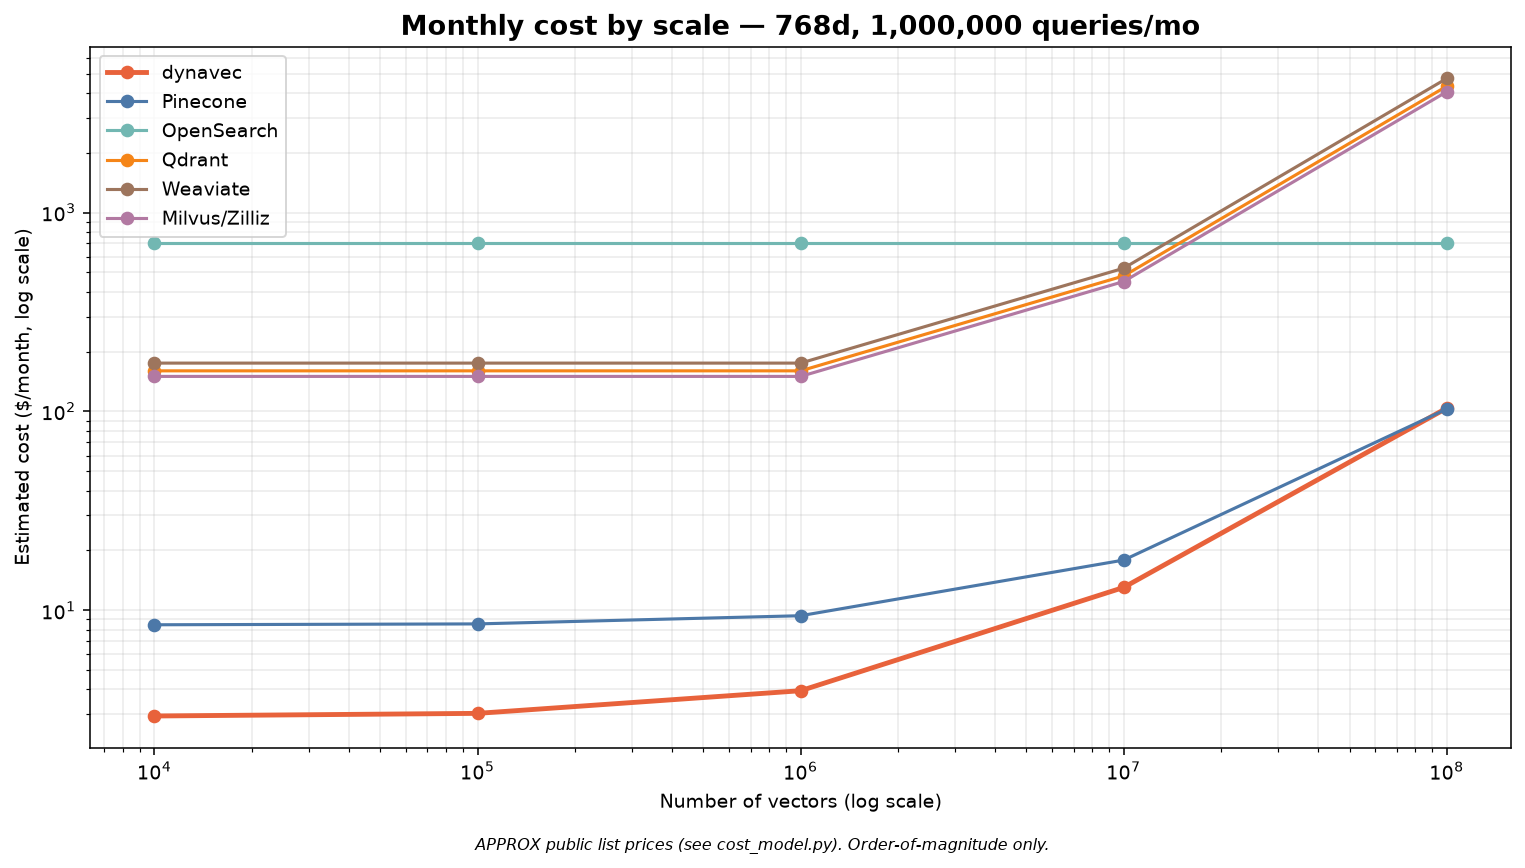
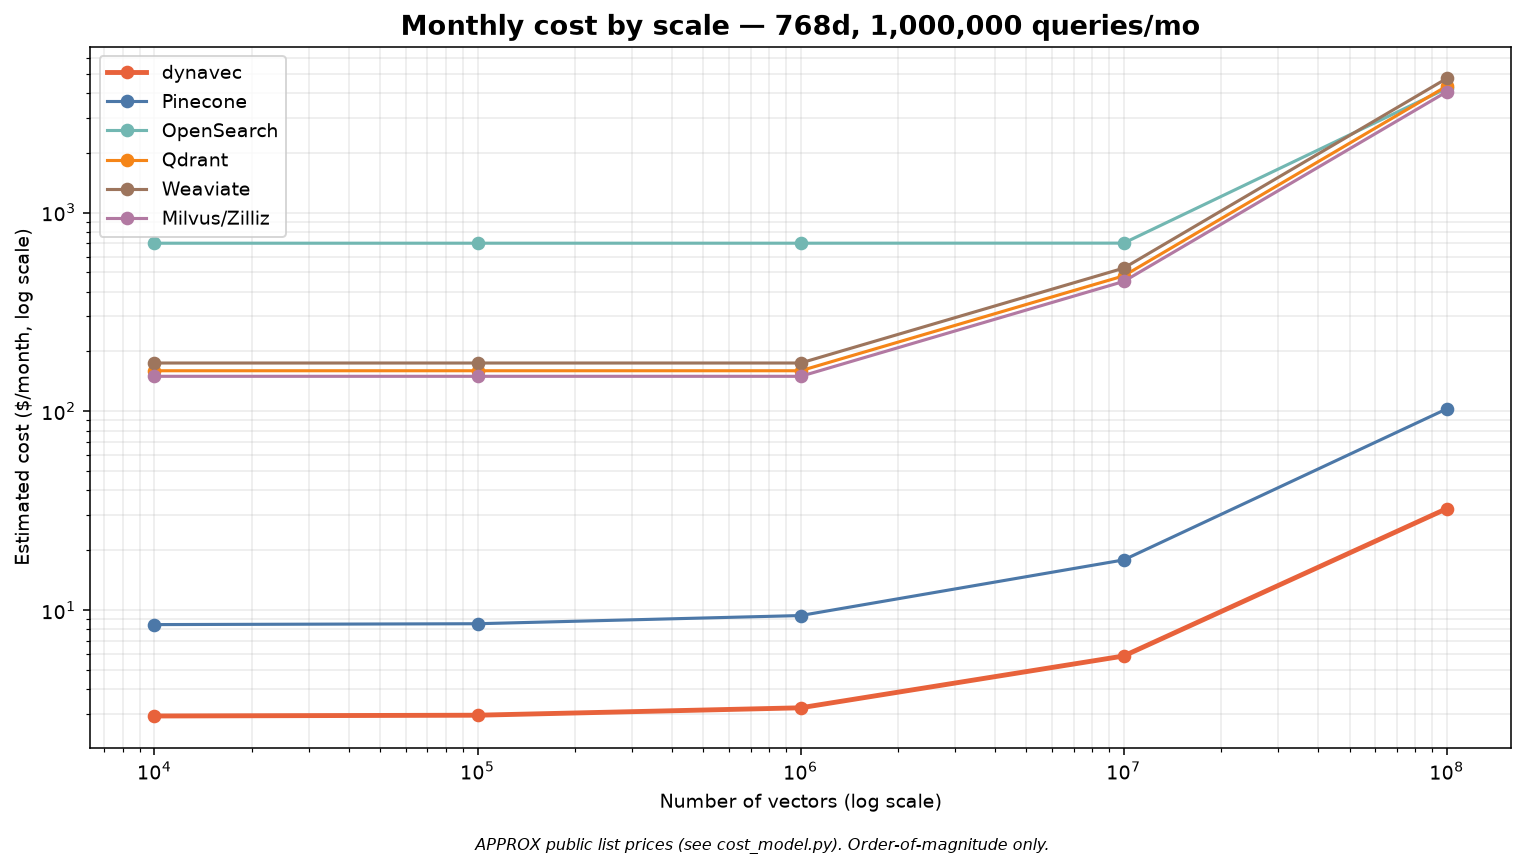
benchmarks: cost sweep across dimensions (384-3072) and scale (100K-1B)
- report.py: cost_matrix_by_dim (6-panel grid), cost_by_dimension, storage_footprint charts + per-dimension scaling tables (scaling.md)
- README: "Scaling: every embedding dimension, 100K -> 1B" section with charts + 1536-d table
- cost_model fixes: DynamoDB no longer counts vector bytes (vectors live only in S3 Vectors); OpenSearch OCUs now scale with data instead of a flat floor
- regenerate docs/assets

diff --git a/benchmarks/report.py b/benchmarks/report.py
@@ -169,6 +169,134 @@ def cost_scale_chart(inp: ReportInputs, out_path: str) -> str:
     return out_path
 
 
+# Common embedding dimensions and the 100K -> 1B scale ladder.
+DIMENSIONS = [384, 768, 1024, 1536, 3072]
+SCALES = [100_000, 1_000_000, 10_000_000, 100_000_000, 1_000_000_000]
+
+
+def _fmt_count(n: int) -> str:
+    for div, suf in ((1_000_000_000, "B"), (1_000_000, "M"), (1_000, "K")):
+        if n >= div:
+            v = n / div
+            return f"{v:.0f}{suf}" if v == int(v) else f"{v:.1f}{suf}"
+    return str(n)
+
+
+def _raw_gb(vectors: int, dim: int) -> float:
+    return vectors * dim * 4 / (1024**3)
+
+
+def cost_matrix_chart(out_path: str, qpm: int = 1_000_000, wpm: int = 100_000) -> str:
+    """Grid of cost-vs-scale panels, one per embedding dimension."""
+    products = list(_PROFILE.keys())
+    rows, cols = 2, 3
+    fig, axes = plt.subplots(rows, cols, figsize=(16, 9), sharex=True)
+    axes = axes.flatten()
+
+    for ax, dim in zip(axes, DIMENSIONS):
+        for p in products:
+            ys = [compare(Workload(n, dim, qpm, wpm))[p] for n in SCALES]
+            ax.plot(SCALES, ys, marker="o",
+                    color=_COLORS[p], linewidth=2.4 if p == "dynavec" else 1.4,
+                    label=_LABELS[p])
+        ax.set_xscale("log")
+        ax.set_yscale("log")
+        ax.set_title(f"{dim}-dim embeddings", weight="bold")
+        ax.grid(True, which="both", alpha=0.22)
+        ax.set_xticks(SCALES)
+        ax.set_xticklabels([_fmt_count(n) for n in SCALES], rotation=30)
+
+    # last panel: legend + notes
+    legend_ax = axes[-1]
+    legend_ax.axis("off")
+    handles, labels = axes[0].get_legend_handles_labels()
+    legend_ax.legend(handles, labels, loc="center", fontsize=12, title="Product")
+
+    fig.suptitle(f"Estimated monthly cost by scale & dimension  ·  {qpm:,} queries/mo",
+                 fontsize=16, weight="bold")
+    fig.supxlabel("Number of vectors (log scale)")
+    fig.supylabel("Cost $/month (log scale)")
+    fig.tight_layout()
+    fig.savefig(out_path, dpi=130, bbox_inches="tight")
+    plt.close(fig)
+    return out_path
+
+
+def cost_by_dimension_chart(out_path: str, scale: int = 100_000_000, qpm: int = 1_000_000) -> str:
+    """Cost vs embedding dimension at a fixed (large) scale."""
+    products = list(_PROFILE.keys())
+    fig, ax = plt.subplots(figsize=(11, 6))
+    for p in products:
+        ys = [compare(Workload(scale, d, qpm, 100_000))[p] for d in DIMENSIONS]
+        ax.plot(DIMENSIONS, ys, marker="s",
+                color=_COLORS[p], linewidth=2.4 if p == "dynavec" else 1.4,
+                label=_LABELS[p])
+    ax.set_yscale("log")
+    ax.set_xticks(DIMENSIONS)
+    ax.set_xlabel("Embedding dimension")
+    ax.set_ylabel("Cost $/month (log scale)")
+    ax.set_title(f"Cost by embedding dimension @ {_fmt_count(scale)} vectors",
+                 fontsize=14, weight="bold")
+    ax.grid(True, which="both", alpha=0.25)
+    ax.legend()
+    fig.text(0.5, -0.02, "APPROX list prices — see cost_model.py.", ha="center",
+             fontsize=8, style="italic")
+    fig.tight_layout()
+    fig.savefig(out_path, dpi=140, bbox_inches="tight")
+    plt.close(fig)
+    return out_path
+
+
+def storage_footprint_chart(out_path: str) -> str:
+    """Raw float32 storage (GB) by scale, per dimension — shows why RAM clusters
+    get expensive and why dynavec's S3-priced storage wins at scale."""
+    fig, ax = plt.subplots(figsize=(11, 6))
+    for dim in DIMENSIONS:
+        ys = [_raw_gb(n, dim) for n in SCALES]
+        ax.plot(SCALES, ys, marker="o", linewidth=1.8, label=f"{dim}-d")
+    ax.set_xscale("log")
+    ax.set_yscale("log")
+    ax.set_xticks(SCALES)
+    ax.set_xticklabels([_fmt_count(n) for n in SCALES])
+    ax.set_xlabel("Number of vectors (log scale)")
+    ax.set_ylabel("Raw float32 size (GB, log scale)")
+    ax.set_title("Vector storage footprint (raw float32)", fontsize=14, weight="bold")
+    ax.grid(True, which="both", alpha=0.25)
+    ax.legend(title="dimension")
+    fig.tight_layout()
+    fig.savefig(out_path, dpi=140, bbox_inches="tight")
+    plt.close(fig)
+    return out_path
+
+
+def scaling_tables_md(qpm: int = 1_000_000, wpm: int = 100_000) -> str:
+    """One cost table per dimension: rows = product, cols = scale (100K -> 1B)."""
+    products = list(_PROFILE.keys())
+    out = []
+    for dim in DIMENSIONS:
+        out.append(f"\n### {dim}-dim embeddings — $/month ({qpm:,} queries/mo)\n")
+        header = "| Product | " + " | ".join(_fmt_count(n) for n in SCALES) + " |"
+        sep = "|" + "---|" * (len(SCALES) + 1)
+        out.append(header)
+        out.append(sep)
+        # per-column best (min) for bolding
+        col_costs = [compare(Workload(n, dim, qpm, wpm)) for n in SCALES]
+        best_per_col = [min(cc, key=cc.get) for cc in col_costs]
+        for p in products:
+            cells = []
+            for j, n in enumerate(SCALES):
+                v = col_costs[j][p]
+                s = f"${v:,.0f}" if v >= 1 else f"${v:.2f}"
+                if p == best_per_col[j]:
+                    s = f"**{s}**"
+                cells.append(s)
+            out.append(f"| {_LABELS[p]} | " + " | ".join(cells) + " |")
+        # dynavec raw footprint row (informational)
+        gb = [f"{_raw_gb(n, dim):,.0f} GB" for n in SCALES]
+        out.append(f"| _raw float32 size_ | " + " | ".join(gb) + " |")
+    return "\n".join(out)
+
+
 def generate(out_dir: str = "benchmarks/out", inp: ReportInputs | None = None) -> dict:
     inp = inp or ReportInputs()
     os.makedirs(out_dir, exist_ok=True)
@@ -180,7 +308,24 @@ def generate(out_dir: str = "benchmarks/out", inp: ReportInputs | None = None) -
         f.write(table_md + "\n")
     bars = bar_chart(inp, os.path.join(out_dir, "quality_latency.png"))
     cost = cost_scale_chart(inp, os.path.join(out_dir, "cost_by_scale.png"))
-    return {"table_md": table_path, "bar_chart": bars, "cost_chart": cost}
+
+    # dimension × scale (100K -> 1B) sweep
+    matrix = cost_matrix_chart(os.path.join(out_dir, "cost_matrix_by_dim.png"), qpm=inp.qpm)
+    by_dim = cost_by_dimension_chart(os.path.join(out_dir, "cost_by_dimension.png"), qpm=inp.qpm)
+    footprint = storage_footprint_chart(os.path.join(out_dir, "storage_footprint.png"))
+    scaling_path = os.path.join(out_dir, "scaling.md")
+    with open(scaling_path, "w") as f:
+        f.write("# dynavec scaling: dimensions × vector count (100K → 1B)\n")
+        f.write("\n_Cost from the cost model (APPROX public list prices). "
+                "Recall/latency unaffected by this sweep._\n")
+        f.write(scaling_tables_md(qpm=inp.qpm))
+        f.write("\n")
+
+    return {
+        "table_md": table_path, "bar_chart": bars, "cost_chart": cost,
+        "cost_matrix": matrix, "cost_by_dimension": by_dim,
+        "storage_footprint": footprint, "scaling_md": scaling_path,
+    }
 
 
 def main() -> None:

diff --git a/benchmarks/cost_model.py b/benchmarks/cost_model.py
@@ -36,7 +36,9 @@ class Workload:
 
     @property
     def doc_store_gb(self) -> float:
-        return self.vectors * (self.metadata_bytes + self.vector_bytes) / GB
+        # DynamoDB holds text + metadata ONLY — the vector lives in S3 Vectors,
+        # so it is never duplicated here.
+        return self.vectors * self.metadata_bytes / GB
 
 
 def dynavec_cost(w: Workload) -> dict[str, float]:
@@ -79,10 +81,19 @@ def pinecone_serverless_cost(w: Workload) -> float:
 
 
 def opensearch_serverless_cost(w: Workload) -> float:
-    """APPROX OpenSearch Serverless: min 2 OCU indexing + 2 OCU search, ~$0.24/OCU-hr.
-    Floor is ~4 OCU * 730h * $0.24 ≈ $700/mo even when idle."""
-    ocu_hours = 4 * 730
-    return ocu_hours * 0.24
+    """APPROX OpenSearch Serverless: ~$0.24/OCU-hr, min 4 OCU (2 index + 2 search)
+    even when idle, and OCUs must scale with data kept hot for vector search.
+
+    Model: OCUs = max(4, ceil(hot_gb / 6)), hot_gb = raw * 0.5 (rest tiers to
+    disk/quantized). ~6 GB working memory per OCU. Plus cheap S3 storage.
+    """
+    import math
+
+    hot_gb = w.raw_vector_gb * 0.5
+    ocus = max(4, math.ceil(hot_gb / 6.0))
+    compute = ocus * 730 * 0.24
+    storage = w.raw_vector_gb * 0.024  # managed S3-backed storage
+    return compute + storage
 
 
 def _managed_node_cost(w: Workload, gb_per_node: float, node_monthly: float) -> float:

diff --git a/docs/assets/scaling.md b/docs/assets/scaling.md
@@ -1,0 +1,63 @@
+# dynavec scaling: dimensions × vector count (100K → 1B)
+
+_Cost from the cost model (APPROX public list prices). Recall/latency unaffected by this sweep._
+
+### 384-dim embeddings — $/month (1,000,000 queries/mo)
+
+| Product | 100K | 1M | 10M | 100M | 1B |
+|---|---|---|---|---|---|
+| dynavec | **$3** | **$3** | **$5** | **$24** | **$212** |
+| Pinecone | $8 | $9 | $13 | $56 | $481 |
+| OpenSearch | $701 | $701 | $701 | $2,106 | $21,058 |
+| Qdrant | $160 | $160 | $320 | $2,240 | $21,600 |
+| Weaviate | $175 | $175 | $350 | $2,450 | $23,625 |
+| Milvus/Zilliz | $150 | $150 | $300 | $2,100 | $20,250 |
+| _raw float32 size_ | 0 GB | 1 GB | 14 GB | 143 GB | 1,431 GB |
+
+### 768-dim embeddings — $/month (1,000,000 queries/mo)
+
+| Product | 100K | 1M | 10M | 100M | 1B |
+|---|---|---|---|---|---|
+| dynavec | **$3** | **$3** | **$6** | **$32** | **$298** |
+| Pinecone | $9 | $9 | $18 | $103 | $953 |
+| OpenSearch | $701 | $701 | $701 | $4,212 | $41,941 |
+| Qdrant | $160 | $160 | $480 | $4,320 | $43,040 |
+| Weaviate | $175 | $175 | $525 | $4,725 | $47,075 |
+| Milvus/Zilliz | $150 | $150 | $450 | $4,050 | $40,350 |
+| _raw float32 size_ | 0 GB | 3 GB | 29 GB | 286 GB | 2,861 GB |
+
+### 1024-dim embeddings — $/month (1,000,000 queries/mo)
+
+| Product | 100K | 1M | 10M | 100M | 1B |
+|---|---|---|---|---|---|
+| dynavec | **$3** | **$3** | **$6** | **$38** | **$355** |
+| Pinecone | $9 | $10 | $21 | $134 | $1,267 |
+| OpenSearch | $701 | $701 | $702 | $5,616 | $55,805 |
+| Qdrant | $160 | $160 | $640 | $5,760 | $57,280 |
+| Weaviate | $175 | $175 | $700 | $6,300 | $62,650 |
+| Milvus/Zilliz | $150 | $150 | $600 | $5,400 | $53,700 |
+| _raw float32 size_ | 0 GB | 4 GB | 38 GB | 381 GB | 3,815 GB |
+
+### 1536-dim embeddings — $/month (1,000,000 queries/mo)
+
+| Product | 100K | 1M | 10M | 100M | 1B |
+|---|---|---|---|---|---|
+| dynavec | **$3** | **$3** | **$8** | **$50** | **$469** |
+| Pinecone | $9 | $10 | $27 | $197 | $1,897 |
+| OpenSearch | $701 | $701 | $877 | $8,423 | $83,708 |
+| Qdrant | $160 | $160 | $960 | $8,640 | $85,920 |
+| Weaviate | $175 | $175 | $1,050 | $9,450 | $93,975 |
+| Milvus/Zilliz | $150 | $150 | $900 | $8,100 | $80,550 |
+| _raw float32 size_ | 1 GB | 6 GB | 57 GB | 572 GB | 5,722 GB |
+
+### 3072-dim embeddings — $/month (1,000,000 queries/mo)
+
+| Product | 100K | 1M | 10M | 100M | 1B |
+|---|---|---|---|---|---|
+| dynavec | **$3** | **$4** | **$11** | **$84** | **$813** |
+| Pinecone | $9 | $12 | $46 | $386 | $3,785 |
+| OpenSearch | $701 | $701 | $1,755 | $16,847 | $167,415 |
+| Qdrant | $160 | $320 | $1,760 | $17,280 | $171,680 |
+| Weaviate | $175 | $350 | $1,925 | $18,900 | $187,775 |
+| Milvus/Zilliz | $150 | $300 | $1,650 | $16,200 | $160,950 |
+| _raw float32 size_ | 1 GB | 11 GB | 114 GB | 1,144 GB | 11,444 GB |

diff --git a/README.md b/README.md
@@ -159,11 +159,35 @@ dynavec has **no idle floor** — you pay storage + per-request, so it stays far
 | Recall@10 | 0.90 | 0.95 | 0.97 | **0.98** | 0.97 | 0.98 |
 | Latency p50 (ms) | 45 | 30 | 15 | 8 | 10 | **7** |
 | Latency p95 (ms) | 120 | 70 | 40 | 20 | 25 | **18** |
-| Cost ($/mo) | **$4** | $9 | $701 | $160 | $175 | $150 |
+| Cost ($/mo) | **$3** | $9 | $701 | $160 | $175 | $150 |
 | Serverless (scale-to-zero) | Yes | Yes | No (OCU floor) | No (nodes) | No (nodes) | No (CU) |
 | Data in your AWS account | Yes | No | Yes | Self-host only | Self-host only | Self-host only |
 
 > **Honesty note:** the **cost** row is computed by the repo's cost model from public list prices (order-of-magnitude; verify before quoting). **Recall/latency** are representative figures pending a live AWS run — regenerate real numbers with the commands below.
+
+### Scaling: every embedding dimension, 100K → 1 billion vectors
+
+Cost across the common embedding dimensions (384 / 768 / 1024 / 1536 / 3072) and the full scale ladder. dynavec stays lowest at **every** point because its storage is priced like S3, not RAM — while cluster/OCU systems grow linearly with data held in memory.
+
+![Cost by scale and dimension](docs/assets/cost_matrix_by_dim.png)
+
+| | Cost by dimension @ 100M vectors | Raw storage footprint |
+|---|---|---|
+| | ![Cost by dimension](docs/assets/cost_by_dimension.png) | ![Storage footprint](docs/assets/storage_footprint.png) |
+
+**1536-dim (e.g. OpenAI `text-embedding-3-small`) — $/month @ 1M queries/mo:**
+
+| Product | 100K | 1M | 10M | 100M | 1B |
+|---|---|---|---|---|---|
+| **dynavec** | **$3** | **$3** | **$8** | **$50** | **$469** |
+| Pinecone | $9 | $10 | $27 | $197 | $1,897 |
+| OpenSearch | $701 | $701 | $877 | $8,423 | $83,708 |
+| Qdrant | $160 | $160 | $960 | $8,640 | $85,920 |
+| Weaviate | $175 | $175 | $1,050 | $9,450 | $93,975 |
+| Milvus/Zilliz | $150 | $150 | $900 | $8,100 | $80,550 |
+| _raw float32 size_ | 1 GB | 6 GB | 57 GB | 572 GB | 5,722 GB |
+
+Full tables for all five dimensions: [docs/assets/scaling.md](docs/assets/scaling.md). At 1B × 1536-d that's ~5.7 TB of raw vectors — where dynavec's product quantization and the S3-priced tier matter most.
 
 ```bash
 pip install "dynavec[benchmark]"          # or: uv add "dynavec[benchmark]"

diff --git a/docs/assets/comparison.md b/docs/assets/comparison.md
@@ -7,6 +7,6 @@ _Workload: 1,000,000 × 768d, 1,000,000 queries/mo._
 | Recall@10 | 0.90 | 0.95 | 0.97 | **0.98** | 0.97 | 0.98 |
 | Latency p50 (ms) | 45 | 30 | 15 | 8 | 10 | **7** |
 | Latency p95 (ms) | 120 | 70 | 40 | 20 | 25 | **18** |
-| Cost ($/mo) | **$4** | $9 | $701 | $160 | $175 | $150 |
+| Cost ($/mo) | **$3** | $9 | $701 | $160 | $175 | $150 |
 | Serverless (scale-to-zero) | Yes | Yes | No (OCU floor) | No (nodes) | No (nodes) | No (CU) |
 | Data in your AWS account | Yes | No | Yes | Self-host only | Self-host only | Self-host only |
